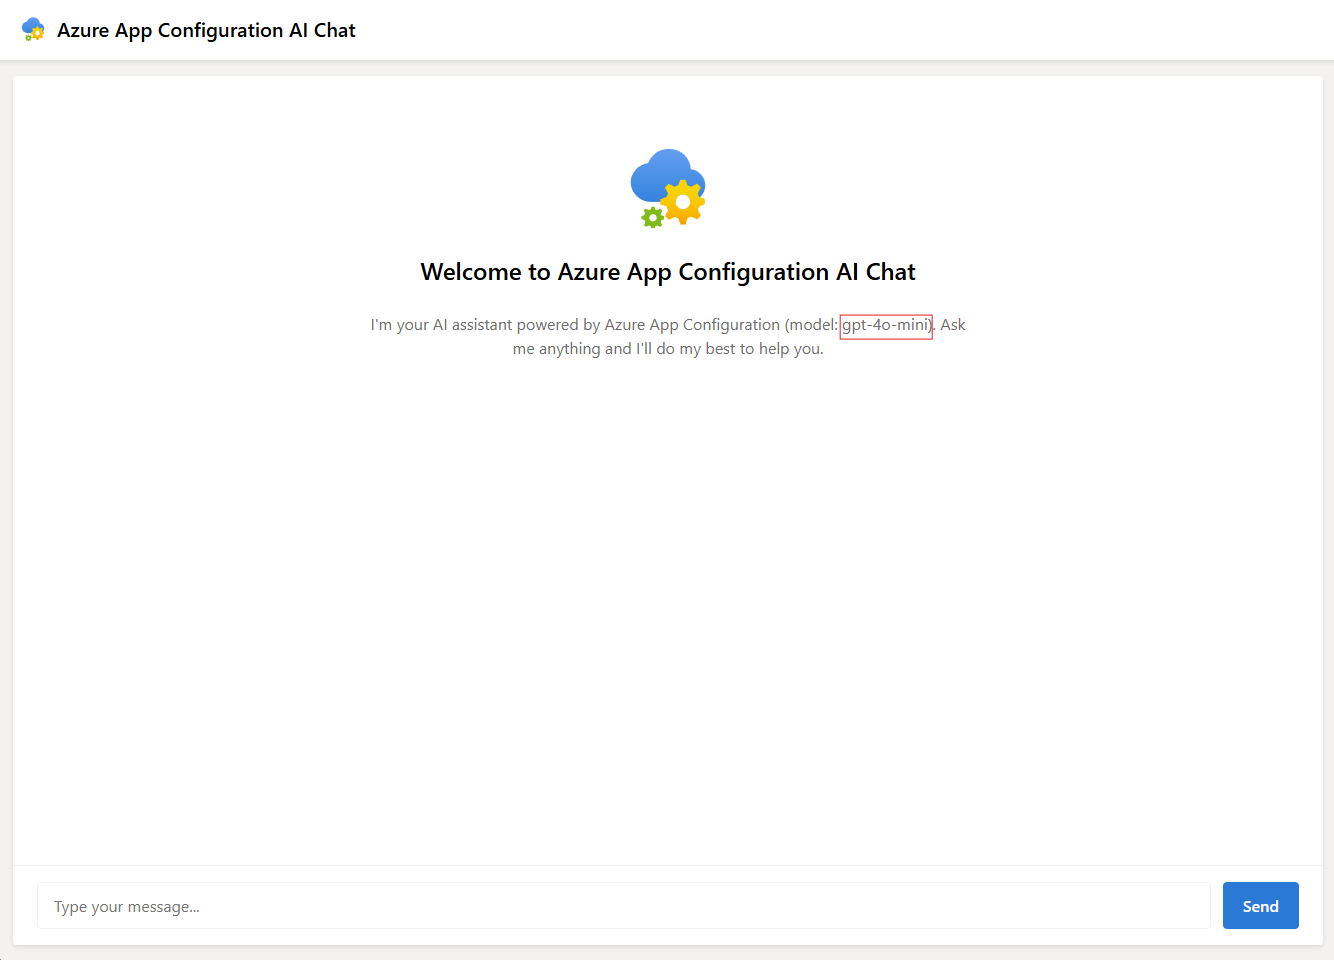
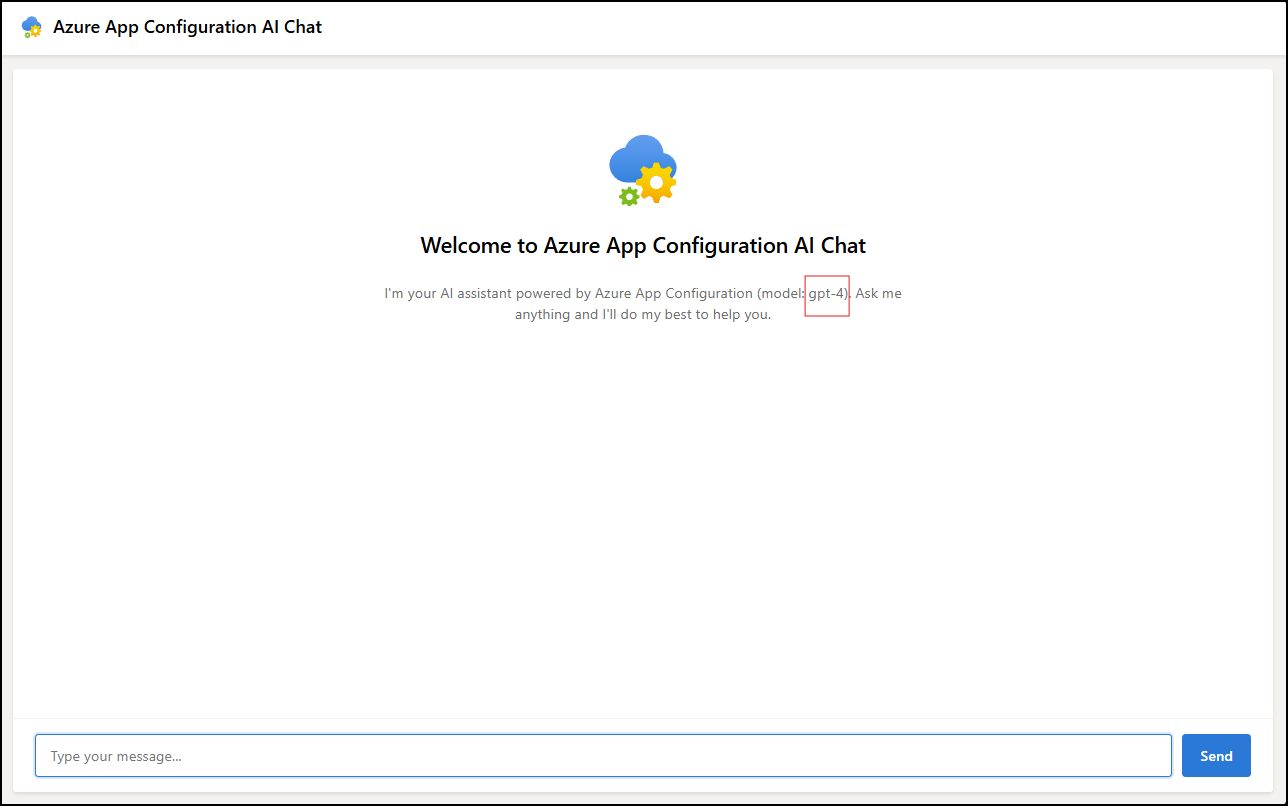
Update app to use App Configuration's native chat completion configuration support.

Changed region(s): [[0.0, 0.0, 1.0, 1.0], [0.2795, 0.1551, 0.7143, 0.4032], [0.0, 0.0, 0.2795, 0.062]]

diff --git a/Backend/Services/AzureOpenAIService.cs b/Backend/Services/AzureOpenAIService.cs
@@ -10,21 +10,22 @@ namespace AzureAppConfigurationChatBot.Services
     public class AzureOpenAIService : IOpenAIService
     {
         private readonly AzureOpenAIClient _client;
-        private readonly IOptionsMonitor<LLMConfiguration> _modelConfiguration;
+        private readonly IOptionsMonitor<CompletionConfiguration> _completionConfiguration;
 
         public AzureOpenAIService(
             IOptions<AzureOpenAIConnectionInfo> connectionInfo,
-            IOptionsMonitor<LLMConfiguration> modelConfiguration)
+            IOptionsMonitor<CompletionConfiguration> completionConfiguration)
         {
             if (connectionInfo?.Value == null)
             {
                 throw new ArgumentNullException(nameof(connectionInfo));
             }
 
-            _modelConfiguration = modelConfiguration ??
-                throw new ArgumentNullException(nameof(modelConfiguration));
+            _completionConfiguration = completionConfiguration ??
+                throw new ArgumentNullException(nameof(completionConfiguration));
 
             string endpoint = connectionInfo.Value.Endpoint;
+
             string key = connectionInfo.Value.ApiKey;
 
             // Use key authentication if key is provided, otherwise use DefaultAzureCredential
@@ -36,7 +37,12 @@ namespace AzureAppConfigurationChatBot.Services
         public async Task<ChatResponse> GetChatCompletionAsync(ChatRequest request)
         {
             // Create a list of messages from the history
-            var messages = GetSystemMessages();
+            List<ChatMessage> messages = _completionConfiguration
+                .CurrentValue
+                .Messages
+                .Where(x => x.Role == "system")
+                .Select(x => new SystemChatMessage(x.Content))
+                .ToList<ChatMessage>();
 
             // Add conversation history if available
             if (request.History != null)
@@ -86,29 +92,27 @@ namespace AzureAppConfigurationChatBot.Services
             };
         }
 
-        private List<ChatMessage> GetSystemMessages()
-        {
-            var messages = new List<ChatMessage>();
-
-            foreach (MessageConfiguration messageConfiguration in
-                _modelConfiguration.CurrentValue.Messages.Where(x => x.Role == "system"))
-            {
-                messages.Add(new SystemChatMessage(messageConfiguration.Content));
-            }
-
-            return messages;
-        }
-
         private async Task<ChatCompletion> GetCompletion(IEnumerable<ChatMessage> messages)
         {
-            ChatClient chatClient = _client.GetChatClient(_modelConfiguration.CurrentValue.Model);
+            ChatClient chatClient = _client.GetChatClient(_completionConfiguration.CurrentValue.Model);
 
             // Create chat completion options if needed
             ChatCompletionOptions options = new ChatCompletionOptions
             {
-                Temperature = _modelConfiguration.CurrentValue.Temperature,
-                MaxOutputTokenCount = _modelConfiguration.CurrentValue.MaxCompletionTokens
+                Temperature = _completionConfiguration.CurrentValue.Temperature,
+                MaxOutputTokenCount = _completionConfiguration.CurrentValue.MaxCompletionTokens,
+                TopP = _completionConfiguration.CurrentValue.TopP
             };
+
+            //
+            // Prepend system messages
+            IEnumerable<ChatMessage> systemMessages = _completionConfiguration
+                .CurrentValue
+                .Messages
+                .Where(x => x.Role == "system")
+                .Select(x => new SystemChatMessage(x.Content));
+
+            messages = systemMessages.Concat(messages);
 
             // Call Azure OpenAI
             return await chatClient.CompleteChatAsync(messages, options);

diff --git a/Backend/Configuration.cs b/Backend/Configuration.cs
@@ -23,32 +23,43 @@ namespace AzureAppConfigurationChatBot
     /// Represents configuration settings for interacting with a Large Language Model (LLM).
     /// This class defines parameters that control the behavior and output of AI model interactions.
     /// </summary>
-    public class LLMConfiguration
+    public class CompletionConfiguration
     {
         /// <summary>
         /// Gets or sets the identifier of the LLM to use for processing.
         /// </summary>
         /// <value>The name or version of the AI model.</value>
+        [ConfigurationKeyName("model")]
         public string Model { get; set; }
 
         /// <summary>
         /// Gets or sets the temperature parameter that controls randomness in the model's responses.
         /// Lower values produce more deterministic outputs, while higher values increase creativity and variability.
         /// </summary>
+        [ConfigurationKeyName("temperature")]
         public float Temperature { get; set; }
 
         /// <summary>
         /// Gets or sets the maximum number of tokens the model should generate in its response.
         /// </summary>
         /// <value>An integer representing the token limit for completions.</value>
-        [ConfigurationKeyName("max_completion_tokens")]
+        [ConfigurationKeyName("max_tokens")]
         public int MaxCompletionTokens { get; set; }
 
         /// <summary>
         /// Gets or sets the collection of messages to be used in the conversation with the LLM.
         /// These typically include system prompts, user inputs, and previous model responses.
         /// </summary>
+        [ConfigurationKeyName("messages")]
         public List<MessageConfiguration> Messages { get; set; } = new List<MessageConfiguration>();
+
+        /// <summary>
+        /// Gets or sets the top_p parameter.
+        /// Lower values make the output more focused, while higher values increase diversity.
+        /// </summary>
+        /// <value>A float representing the nucleus sampling probability threshold.</value>
+        [ConfigurationKeyName("top_p")]
+        public float TopP { get; set; }
     }
 
     /// <summary>
@@ -62,12 +73,14 @@ namespace AzureAppConfigurationChatBot
         /// Common roles include "system", "user", and "assistant".
         /// </summary>
         /// <value>A string representing the message sender's role.</value>
-        public string Role { get; set; }
+        [ConfigurationKeyName("role")]
+        public required string Role { get; set; }
 
         /// <summary>
         /// Gets or sets the actual content of the message to be processed by the LLM.
         /// </summary>
         /// <value>A string containing the message text.</value>
+        [ConfigurationKeyName("content")]
         public string Content { get; set; }
     }
 }

diff --git a/Backend/Controllers/ChatController.cs b/Backend/Controllers/ChatController.cs
@@ -11,13 +11,13 @@ namespace AzureAppConfigurationChatBot.Controllers
     {
         private readonly IOpenAIService _openAIService;
         private readonly ILogger<ChatController> _logger;
-        private readonly IOptionsMonitor<LLMConfiguration> _modelConfiguration;
+        private readonly IOptionsMonitor<CompletionConfiguration> _completionConfiguration;
 
-        public ChatController(IOpenAIService openAIService, ILogger<ChatController> logger, IOptionsMonitor<LLMConfiguration> modelConfiguration)
+        public ChatController(IOpenAIService openAIService, ILogger<ChatController> logger, IOptionsMonitor<CompletionConfiguration> completionConfiguration)
         {
             _openAIService = openAIService;
             _logger = logger;
-            _modelConfiguration = modelConfiguration;
+            _completionConfiguration = completionConfiguration;
         }
 
         [HttpPost]
@@ -43,7 +43,7 @@ namespace AzureAppConfigurationChatBot.Controllers
         [HttpGet("model")]
         public ActionResult<string> GetModelName()
         {
-            return Ok(_modelConfiguration.CurrentValue.Model);
+            return Ok(_completionConfiguration.CurrentValue.Model);
         }
     }
 }

diff --git a/Backend/Program.cs b/Backend/Program.cs
@@ -24,8 +24,8 @@ builder.Configuration.AddAzureAppConfiguration(options =>
 builder.Services.Configure<AzureOpenAIConnectionInfo>(
     builder.Configuration.GetSection("AzureOpenAI"));
 
-builder.Services.Configure<LLMConfiguration>(
-    builder.Configuration.GetSection("ChatLLM"));
+builder.Services.Configure<CompletionConfiguration>(
+    builder.Configuration.GetSection("Chatbot:Completion"));
 
 // Add services to the container
 builder.Services.AddControllers();

diff --git a/README.md b/README.md
@@ -4,7 +4,7 @@ This repository contains a demo application that showcases integration with Azur
 
 ![Chat Interface Screenshot](Images/ChatScreenshot.png)
 
-![Configuration Screenshot](Images/ConfigurationScreenshot.png)
+![Configuration Screenshot](Images/ChatCompletionConfiguration.png)
 
 ## Project Structure
 
@@ -53,25 +53,10 @@ This repository contains a demo application that showcases integration with Azur
 
 2. Configure Azure App Configuration with the following settings:
 
-   a. **AI Model Configuration**:
-   - **Key**: `ChatLLM`
-   - **Value**: 
-     ```json
-     {
-       "model_provider": "azure_openai",
-       "model": "{Azure Open AI deployment name}",
-       "temperature": 0.7,
-       "max_completion_tokens": 1000,
-       "messages": [
-         {
-           "role": "system",
-           "content": "You are a helpful Microsoft AI assistant. Be concise, professional, and informative."
-         }
-       ]
-     }
-     ```
-     Replace `{Azure Open AI deployment name}` with your actual deployment name.
-   - **Content Type**: `application/json`
+   a. **Chat Completion Configuration**
+   - **Key**: `Chatbot:Completion`
+   - **Model**: `{Azure Open AI model (deployment name)}` (gpt-4 suggested)
+   - **System message content**: `You are a helpful AI assistant. Be concise, professional, and informative.`
 
    b. **Azure OpenAI Endpoint**:
    - **Key**: `AzureOpenAI:Endpoint`
